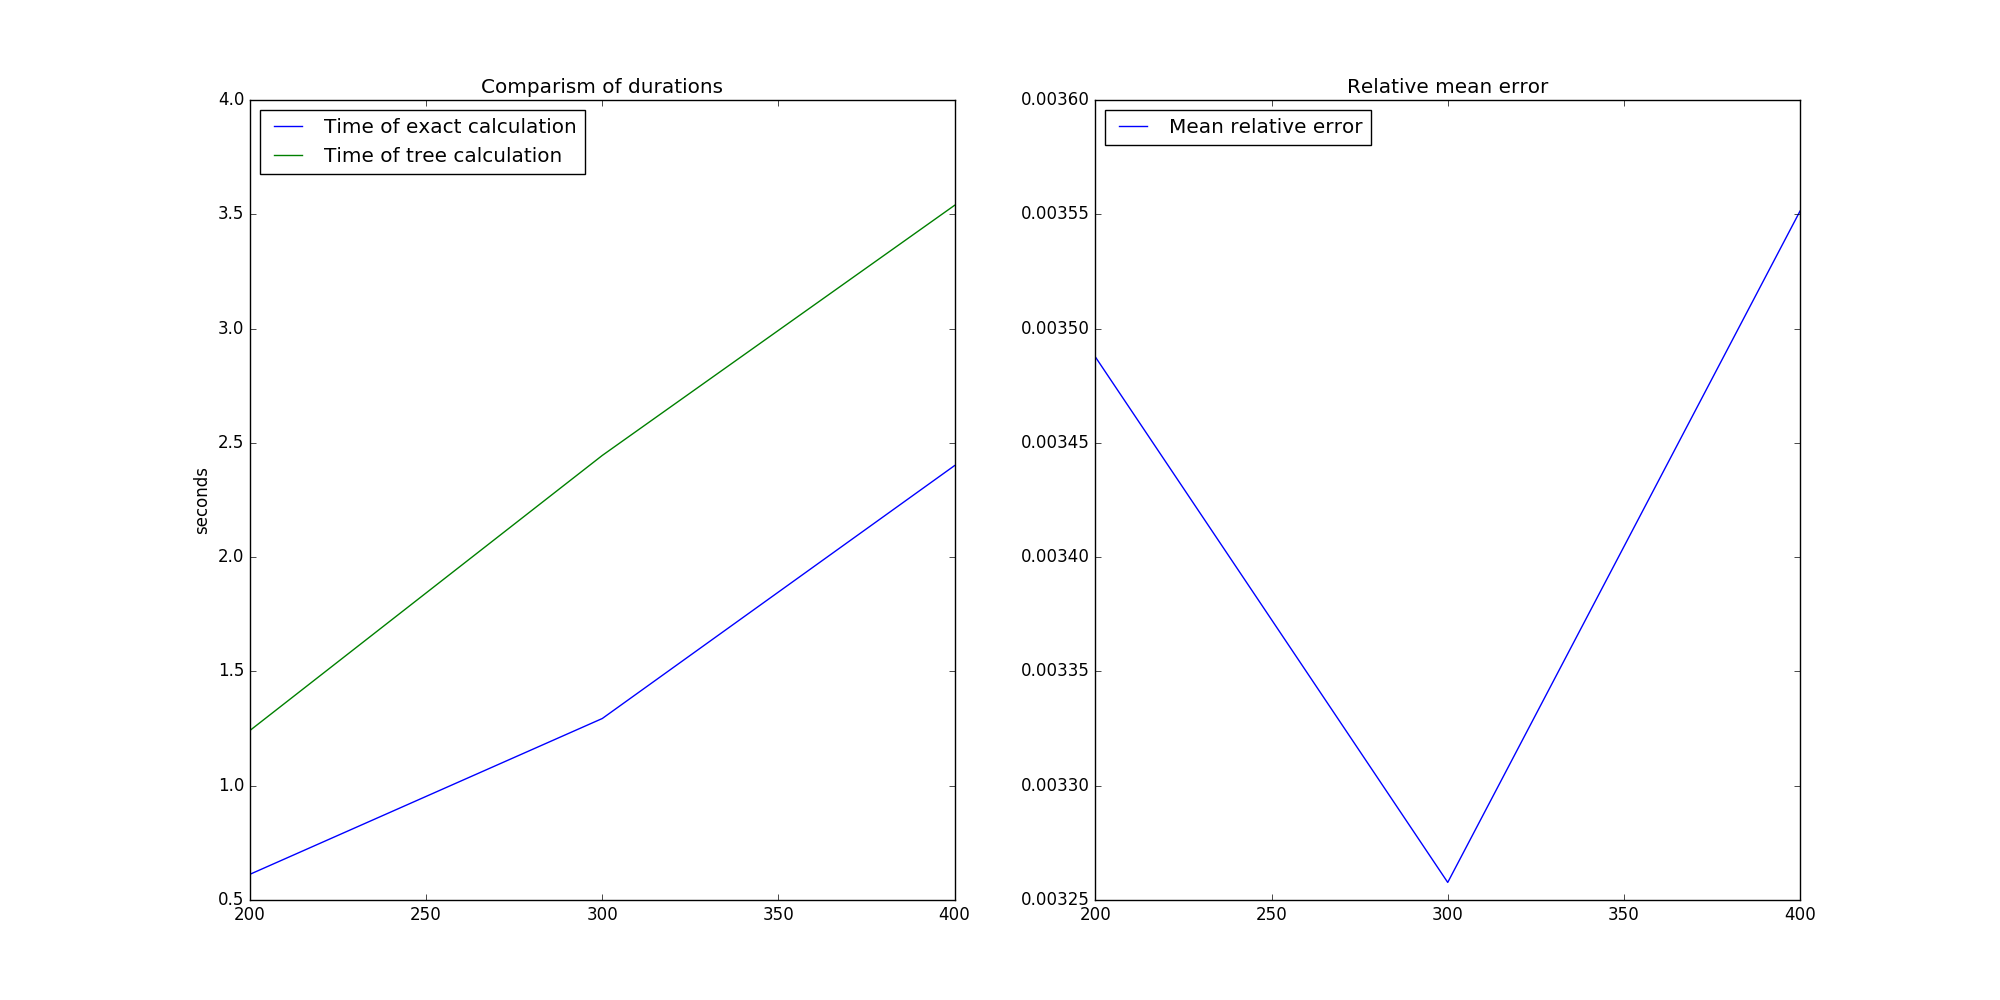
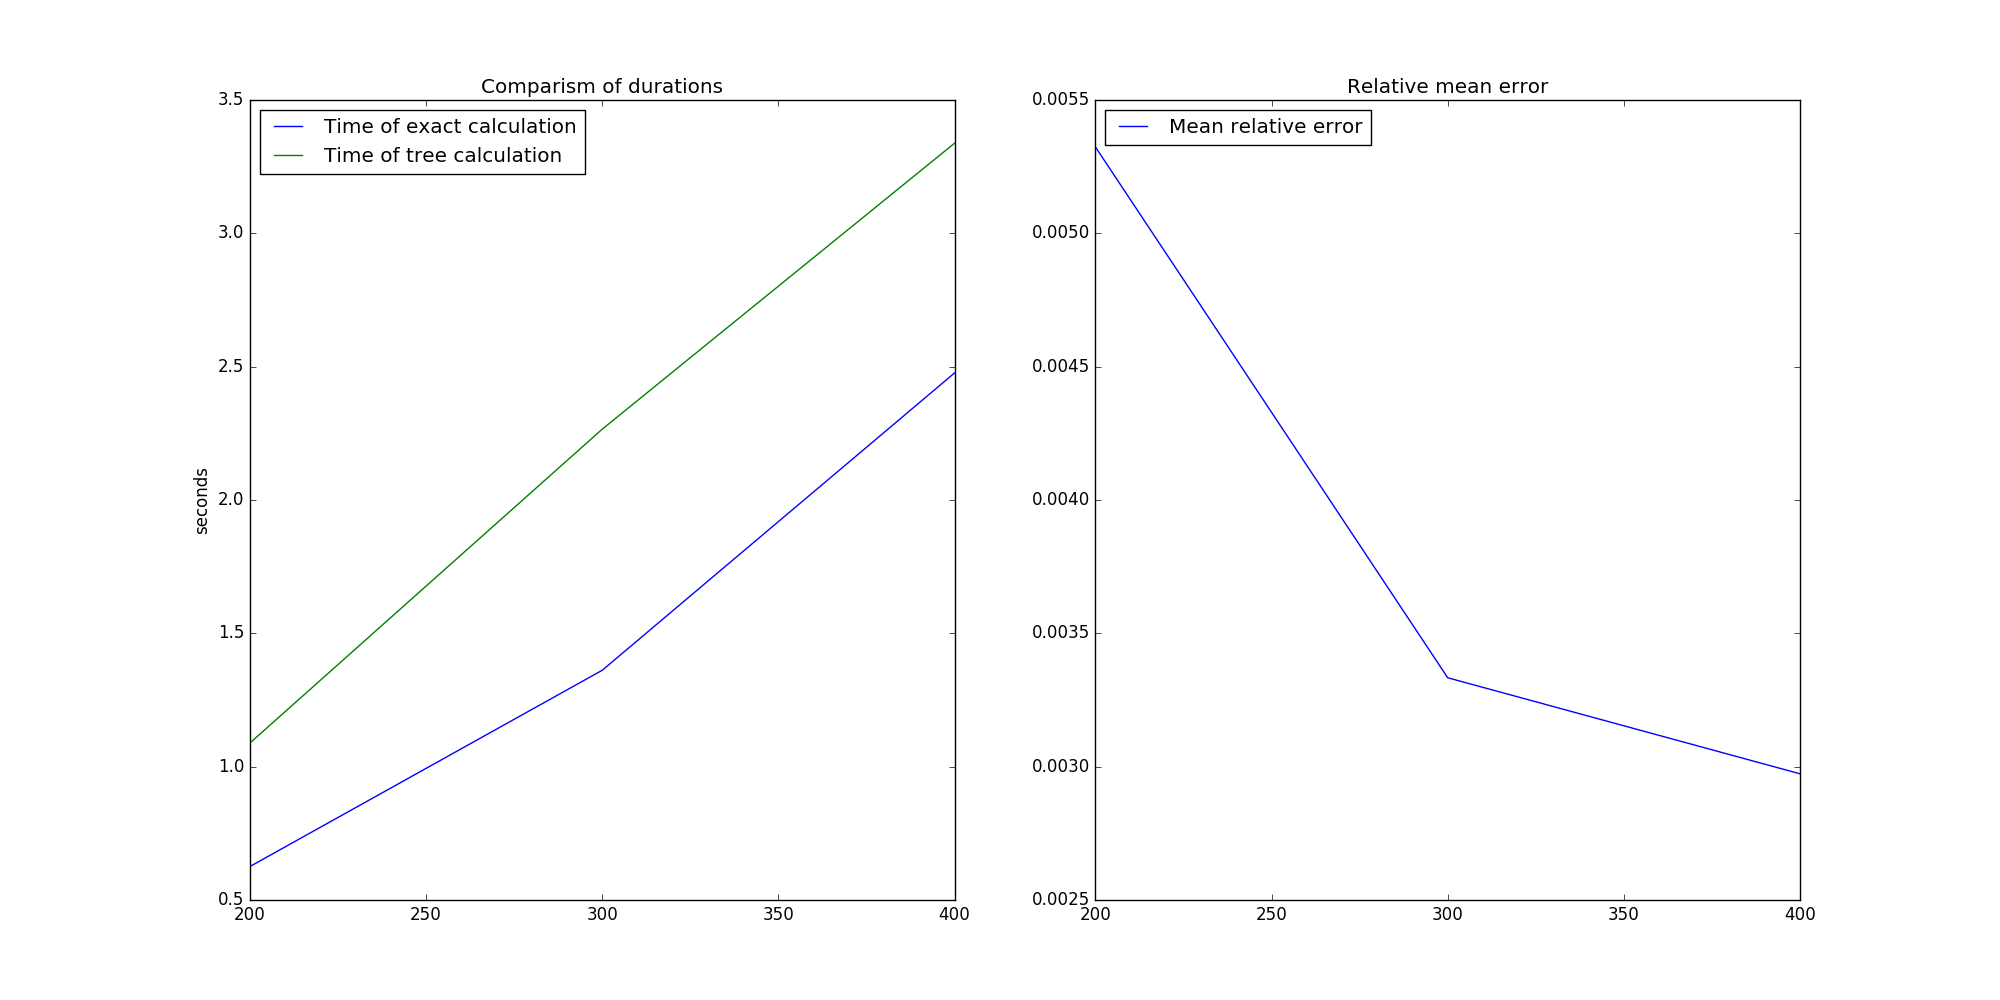
Last changes, now simulating

diff --git a/exercise_03/tree_alg.py b/exercise_03/tree_alg.py
@@ -43,7 +43,6 @@ class Node:
 
         self.com = None # np-array of center of mass, will be calculated
         self.mass = 0 # mass, will be calculated
-        self.quadrupole = 0
 
         self.subnodes = None # later a list of indices of the subnodes
         self.mothernode_global_index = mother_node_index # index of nearest node
@@ -241,9 +240,6 @@ class Tree:
                 node.mass += subnode.mass
                 node.com = node.com + (subnode.mass * subnode.com)
 
-            # TODO: how to calculate the rest (quadrupoles)
-            # now uses all inner particles.
-            node.quadrupole = self.calc_quadrupol_matrix(node)
 
             # only com if mass is not 0
             node.com = node.com/node.mass if node.mass != 0 else None
@@ -258,10 +254,6 @@ class Tree:
                 node.mass += particle.mass
                 node.com = node.com + (particle.mass * particle.position)
 
-            # TODO: how to calculate the rest (quadrupoles)
-            # now uses all inner particles.
-            node.quadrupole = self.calc_quadrupol_matrix(node)
-
             # only com if mass is not 0
             node.com = node.com/node.mass if node.mass != 0 else None
 
@@ -274,27 +266,6 @@ class Tree:
             angle: opening-angle in rad
         """
         return node.length / norm(y) if norm(y) != 0 else None
-
-    # maybe useless
-    def calc_quadrupol_matrix(self, node):
-        """
-        Calculates the quadrupole-matrix.
-        @param
-        @return
-            matrix: numpy-matrix
-        """
-        q_m = np.array([])
-        for i in range(3):
-            for j in range(i, 3):
-                q = 0
-                # loop over all inner particles -> only over subnodes?
-                for particle_index in node.inner_particles:
-                    particle = self.all_particles[particle_index]
-                    cron_delta = 1 if i == j else 0
-                    q += particle.mass*(3*(np.dot(node.com[i] - particle.position[i], node.com[j] - particle.position[j]) - cron_delta*norm(node.com - particle.position)**2))
-                q_m = np.append(q_m, q)
-
-        return np.array([[q_m[0], q_m[1], q_m[2]], [q_m[1], q_m[3], q_m[4]], [q_m[2], q_m[4], q_m[5]]])
 
     def get_acc_for(self, node, particle_index, term_counter = 0):
         """
@@ -329,9 +300,6 @@ class Tree:
 
             # monopole
             acc = acc - node.mass * y/((norm(y)**2 + self.softening**2)**(3/2))
-
-            # quadrupole
-            #acc = acc +  ((2 * np.dot(node.quadrupole, y) * norm(y)**5 + 10 * y * norm(y)**4 * np.dot(y, np.dot(node.quadrupole, y)))/(norm(y)**10))
 
             term_counter += 1
 
@@ -389,16 +357,19 @@ class Tree:
         @param:
         @return:
         """
+        print("Proof positions of all particles...")
         for particle in self.all_particles:
             # load node the particle claims to belong to
             node = self.all_nodes[particle.mother_node]
             # if the particle is out of this node
             if (np.abs(node.center - particle.position) > np.array([node.length/2 for i in range(3)])).any():
-                print("ERROR: Particle %d in wrong node" % particle.global_particle_index)
-                print("   ", "Node-Center: (%1.6f, %1.6f, %1.6f), Node-Length: %1.6f, Particle-Position: (%1.6f, %1.6f, %1.6f)" % (*node.center, node.length, *particle.position))
+                print("\tERROR: Particle %d in wrong node" % particle.global_particle_index)
+                print("\t   ", "Node-Center: (%1.6f, %1.6f, %1.6f), Node-Length: %1.6f, Particle-Position: (%1.6f, %1.6f, %1.6f)" % (*node.center, node.length, *particle.position))
             # if there are subnodes the particle can also belong to
             if node.subnodes != None:
-                print("WARNING: The node %d has subnodes. The particle %d may should be in one of those." % (particle.mother_node, particle.global_particle_index))
+                print("\tWARNING: The node %d has subnodes. The particle %d may should be in one of those." % (particle.mother_node, particle.global_particle_index))
+        print("\tFinished.")
+
 
     def print_node(self, node_index):
         """
@@ -441,6 +412,9 @@ class Tree:
         @param:
             threshold: the threshold for the opening angle
             single_particles: list of indices particles one want to analyze. If False, all particles are used for analysation
+            proof_particles: boolean, whether the method proof_all_particles should be called.
+        @return
+            n, theta, t_exact, t_tree
         """
         # initialise list of particles used for the analysation
         if single_particles != False:
@@ -450,7 +424,6 @@ class Tree:
 
         # proof particles?
         if proof_particles:
-            print("Proof positions of all particles...")
             self.proof_all_particles()
 
         # exact
@@ -493,13 +466,13 @@ class Tree:
         # output
         print("Analysation: N = {:d} particles, threshold = {:1.3f}, total mass: {:3.3f}".format(len(particles), self.opening_threshold, self.root.mass))
         print("\tExact:")
-        print("\t\ttime: {:1.6f}".format(time_of_exact))
+        print("\t\ttime: {:1.6f}sec".format(time_of_exact))
         print("\tTree:")
-        print("\t\ttime: {:1.6f}".format(time_of_tree))
+        print("\t\ttime: {:1.6f}sec".format(time_of_tree))
         print("\t\tmean relative error: {:2.5f}".format(eta))
         print("\t\tmean used nodes: {:4.2f}".format(total_terms))
 
-        return len(particles), threshold, time_of_exact, time_of_tree, eta 
+        return len(particles), threshold, time_of_exact, time_of_tree, eta
 
     def reset(self):
         """
@@ -534,6 +507,7 @@ class Tree:
 
         t0 = time()
         for i in range(n):
+            progressBar("\tProgress", i, n) # update command line
             pos = np.array([-init_length/2 + distribution()*init_length, -init_length/2 + distribution()*init_length, -init_length/2 + distribution()*init_length])
             success = tree.insert_particle(pos, mass_function(n, *pos))
             if not success:
@@ -542,7 +516,7 @@ class Tree:
 
         print("\tInserted {:d} particles".format(len(tree.all_particles)))
         print("\t{:d} nodes created".format(len(tree.all_nodes)))
-        print("\tTime needed: {:3.3f}".format(t1 - t0))
+        print("\tTime needed: {:3.3f}sec".format(t1 - t0))
 
         return tree
 

diff --git a/exercise_03/part2.py b/exercise_03/part2.py
@@ -1,13 +1,13 @@
 import numpy as np
 import tree_alg as tree
 from random import random
-
+import time
 from matplotlib import pyplot as plt
 
 
 # number of particles
-ns = [200, 300, 400] # n's we want to test
-thetas = [0.4] # thetas we want to test
+ns = [5000, 10000, 20000, 40000] # n's we want to test
+thetas = [0.2, 0.4, 0.8] # thetas we want to test
 
 probability_distribution = random # use a uniform distribution for placements of the particles
 mass_function = lambda n, x, y, z: 1/n # every particle should have the same mass of 1/n
@@ -19,12 +19,15 @@ all_time_tree = np.array([])
 all_eta = np.array([])
 all_theta = np.array([])
 
+
+t0 = time.time()
+
 # loop over grid
 for n in ns:
     for theta in thetas:
         print("\n----- N = {:d}, Theta = {:1.2f} -----".format(n, theta))
         simulation = tree.Tree.init_a_tree(n, probability_distribution, mass_function)
-        n, threshold, time_of_exact, time_of_tree, eta = simulation.analyze(theta)
+        n, threshold, time_of_exact, time_of_tree, eta = simulation.analyze(theta, proof_particles=True)
 
         all_n = np.append(all_n, n)
         all_theta = np.append(all_theta, theta)
@@ -35,50 +38,60 @@ for n in ns:
 
 #### Plotting
 
-theta_of_interest = 0.4
-print("\n\nPlot evaluation for Theta = {:1.2f}".format(theta_of_interest))
+for theta_of_interest in all_theta:
 
-fig, (ax1, ax2) = plt.subplots(1, 2, figsize=(20, 10), sharex=True)
+    print("\n\nPlot evaluation for Theta = {:1.2f}".format(theta_of_interest))
 
-ax1.plot(all_n[all_theta == theta_of_interest], all_time_exact[all_theta == theta_of_interest], label="Time of exact calculation")
-ax1.plot(all_n[all_theta == theta_of_interest], all_time_tree[all_theta == theta_of_interest], label="Time of tree calculation")
-ax1.set_ylabel("seconds")
-ax1.set_title("Comparism of durations")
-ax1.legend(loc=2)
-ax2.plot(all_n[all_theta == theta_of_interest], all_eta[all_theta == theta_of_interest], label="Mean relative error")
-ax2.legend(loc=2)
-ax2.set_title("Relative mean error")
+    fig, (ax1, ax2) = plt.subplots(1, 2, figsize=(20, 10), sharex=True)
 
-plt.savefig("evaluation.png")
+    ax1.plot(all_n[all_theta == theta_of_interest], all_time_exact[all_theta == theta_of_interest], label="Time of exact calculation")
+    ax1.plot(all_n[all_theta == theta_of_interest], all_time_tree[all_theta == theta_of_interest], label="Time of tree calculation")
+    ax1.set_ylabel("seconds")
+    ax1.set_title("Comparism of durations")
+    ax1.legend(loc=2)
+    ax2.plot(all_n[all_theta == theta_of_interest], all_eta[all_theta == theta_of_interest], label="Mean relative error")
+    ax2.legend(loc=2)
+    ax2.set_title("Relative mean error")
+
+    plt.savefig("evaluation_%d.png"  % int(theta_of_interest*10))
 
 
-#TODO: Welche Skala?
+    #TODO: Welche Skala?
 
-fig, (ax1, ax2) = plt.subplots(1, 2, figsize=(20, 10), sharex=True)
+    fig, (ax1, ax2) = plt.subplots(1, 2, figsize=(20, 10), sharex=True)
 
-ax1.plot(all_n[all_theta == theta_of_interest], all_time_exact[all_theta == theta_of_interest], label="Time of exact calculation")
-ax1.plot(all_n[all_theta == theta_of_interest], all_time_tree[all_theta == theta_of_interest], label="Time of tree calculation")
-ax1.set_ylabel("seconds")
-ax1.set_title("Comparism of durations")
-ax1.set_xscale("log")
-ax1.legend(loc=2)
-ax2.plot(all_n[all_theta == theta_of_interest], all_eta[all_theta == theta_of_interest], label="Mean relative error")
-ax2.legend(loc=2)
-ax2.set_title("Relative mean error")
+    ax1.plot(all_n[all_theta == theta_of_interest], all_time_exact[all_theta == theta_of_interest], label="Time of exact calculation")
+    ax1.plot(all_n[all_theta == theta_of_interest], all_time_tree[all_theta == theta_of_interest], label="Time of tree calculation")
+    ax1.set_ylabel("seconds")
+    ax1.set_title("Comparism of durations")
+    ax1.set_xscale("log")
+    ax1.legend(loc=2)
+    ax2.plot(all_n[all_theta == theta_of_interest], all_eta[all_theta == theta_of_interest], label="Mean relative error")
+    ax2.legend(loc=2)
+    ax2.set_title("Relative mean error")
 
-plt.savefig("evaluation1.png")
+    plt.savefig("evaluation1_%d.png" % int(theta_of_interest*10))
 
-fig, (ax1, ax2) = plt.subplots(1, 2, figsize=(20, 10), sharex=True)
+    fig, (ax1, ax2) = plt.subplots(1, 2, figsize=(20, 10), sharex=True)
 
-ax1.plot(all_n[all_theta == theta_of_interest], all_time_exact[all_theta == theta_of_interest], label="Time of exact calculation")
-ax1.plot(all_n[all_theta == theta_of_interest], all_time_tree[all_theta == theta_of_interest], label="Time of tree calculation")
-ax1.set_ylabel("seconds")
-ax1.set_title("Comparism of durations")
-ax1.set_xscale("log")
-ax1.set_yscale("log")
-ax1.legend(loc=2)
-ax2.plot(all_n[all_theta == theta_of_interest], all_eta[all_theta == theta_of_interest], label="Mean relative error")
-ax2.legend(loc=2)
-ax2.set_title("Relative mean error")
+    ax1.plot(all_n[all_theta == theta_of_interest], all_time_exact[all_theta == theta_of_interest], label="Time of exact calculation")
+    ax1.plot(all_n[all_theta == theta_of_interest], all_time_tree[all_theta == theta_of_interest], label="Time of tree calculation")
+    ax1.set_ylabel("seconds")
+    ax1.set_title("Comparism of durations")
+    ax1.set_xscale("log")
+    ax1.set_yscale("log")
+    ax1.legend(loc=2)
+    ax2.plot(all_n[all_theta == theta_of_interest], all_eta[all_theta == theta_of_interest], label="Mean relative error")
+    ax2.legend(loc=2)
+    ax2.set_title("Relative mean error")
 
-plt.savefig("evaluation2.png")
+    plt.savefig("evaluation2_%d.png" % int(theta_of_interest*10))
+
+
+t1 = time.time()
+
+print("All n, theta", all_n, all_theta)
+print("All exact time", all_time_exact)
+print("All tree time", all_time_tree)
+print("All eta", all_eta)
+print("Total time:", t1 - t0, "sec")

diff --git a/exercise_03/sheet.tex b/exercise_03/sheet.tex
@@ -16,13 +16,19 @@
 % Kopfzeile
 \usepackage{scrlayer-scrpage}
 \pagestyle {scrheadings}
-\rohead*{Max Simon\\3295271}
+\rohead*{Kevin Lange\\Max Simon}
 
 \begin{document}
 	
-	\part*{Exercise Sheet 03}
-	
-	
+	\part*{Exercise Sheet 03}	
+	\section*{Part 2}
+	For a better understanding of the algorithm, we implemented it in Python (see \emph{tree_alg.py}). The code is not performant nor optimized for memory consumption, but gives opportunities to check the workflow. For example one can use the method \emph{proof_all_particles} to proof, if all particles are in the right node, can print out the whole tree (with \emph{print_tree}) and has some informational output. The code has a good documentation, so we don't want to explain it here.\\
+	\\
+	We inserted N = 5000, 10000, 20000 and 40000 particles (uniformly distributed in the box with a mass of \frac{1}{N}) for different opening angles thresholds ($\Theta = 0.2, 0.4 \text{and} 0.8$). This is done by the static method \emph{init_a_tree}.\\
+	\\
+	The \emph{analyzing} method do an exact calculation and an calculation using the tree method. Afterwards it prints out the used time for both calculations, the mean value of $\eta$ and the mean number of nodes used for the calculation of one particle.\\
+	\\
+	In the \emph{part2.py} script we initialize and start the simulations. Afterwards the measured times and the mean $\eta$ depending on N are plotted for each $\theta$. The results can be found in %TODO!!! 
 	
 	
 \end{document}
